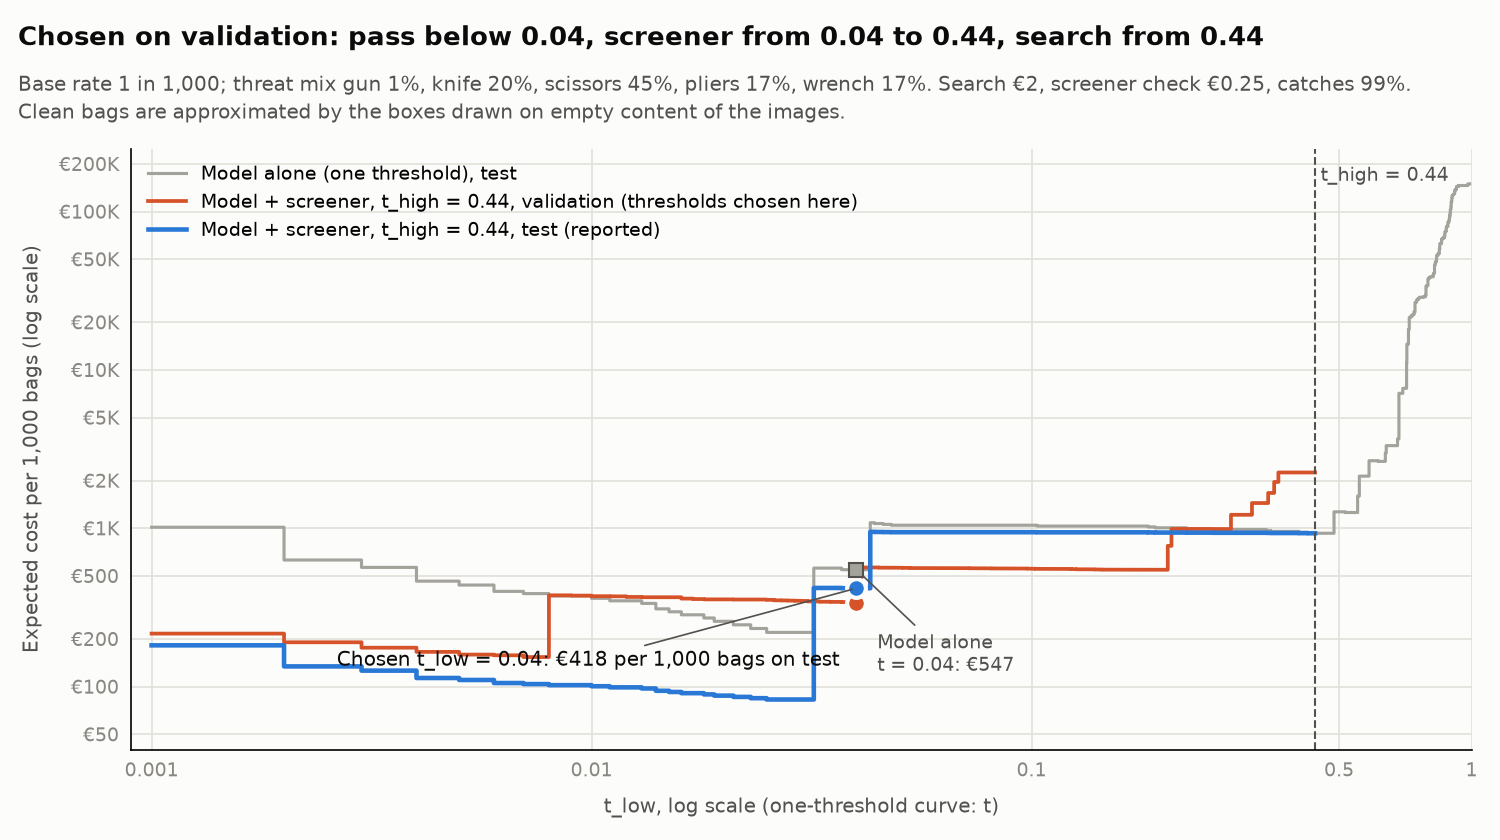
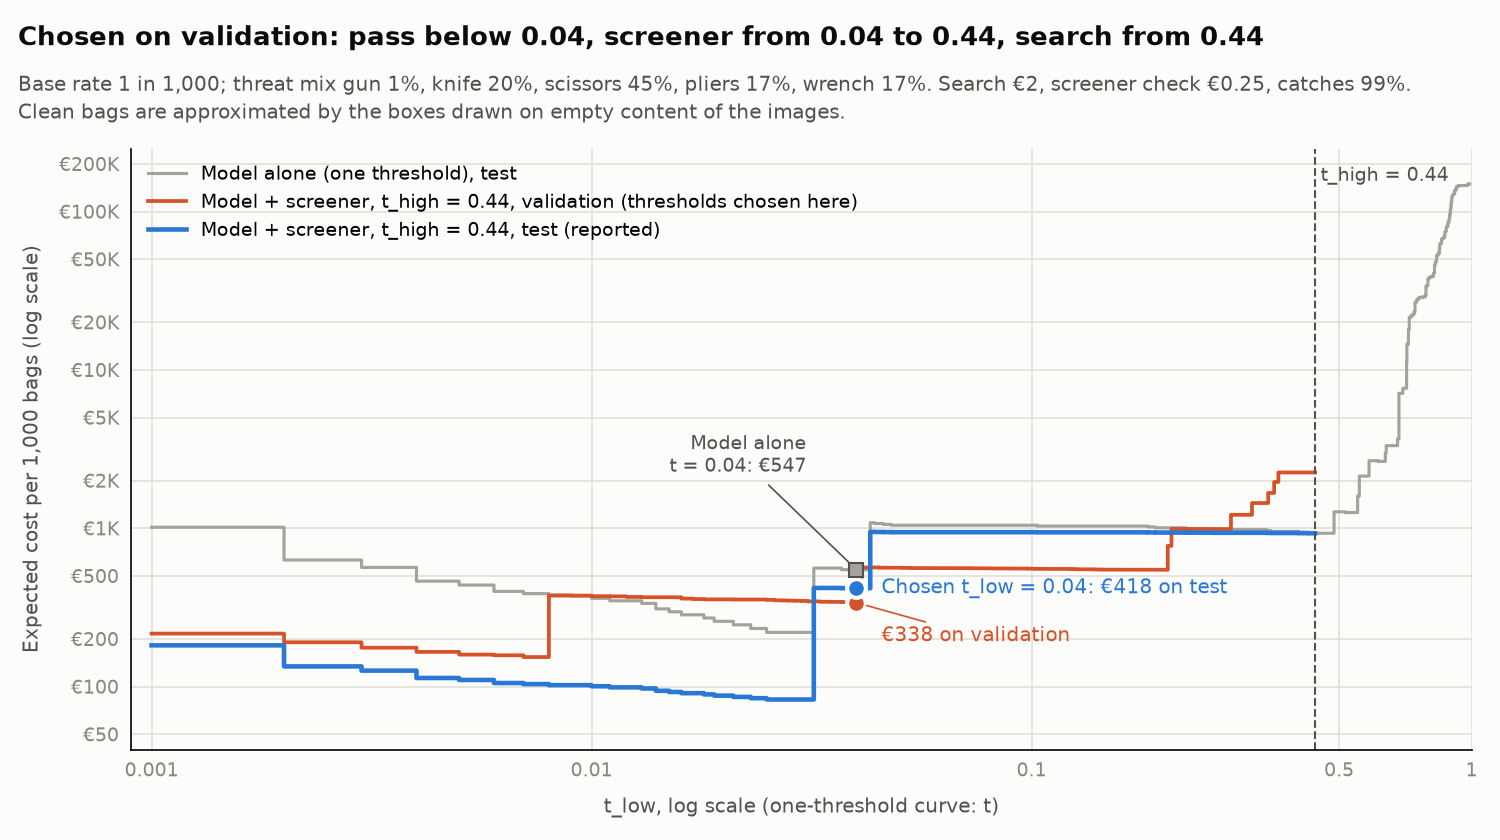
Report on the template headings; consistency fixes (pliers-bag framing, IoU note, grid); clearer cost-curve labels

Changed region(s): [[0.5827, 0.681, 0.828, 0.8048], [0.2147, 0.7738, 0.552, 0.8048], [0.46, 0.4952, 0.552, 0.5571]]

diff --git a/costing.py b/costing.py
@@ -507,7 +507,7 @@ def sensitivity(val: BagScores, test: BagScores, costs: Costs = DEFAULT_COSTS) -
 def comparison(val: BagScores, test: BagScores, costs: Costs = DEFAULT_COSTS) -> list[dict]:
     """Cost per 1,000 bags (val and test) and daily staffing (test shares) of the alternatives.
 
-    "Do nothing", "a person checks every image" and "search every bag" send every bag one way
+    "Do nothing", "a screener checks every image" and "search every bag" send every bag one way
     (thresholds of +/- inf).
     """
     k, inf = costs, np.inf
@@ -571,14 +571,17 @@ def plot_cost_curve(val: BagScores, test: BagScores, path: Path | None = None, c
     for split, scores, colour in (("val", val, orange), ("test", test, blue)):
         cost = p["chosen_policy"][split]["cost_per_1000"]
         ax.plot([lo], [cost], "o", ms=9, color=colour, mec=surface, mew=2, zorder=3)
-    c_test = p["chosen_policy"]["test"]["cost_per_1000"]
-    ax.annotate(f"Chosen t_low = {lo:g}: €{c_test:,.0f} per 1,000 bags on test", (lo, c_test),
-                xytext=(-8, -30), textcoords="offset points", ha="right", va="top", fontsize=9.5, color=ink,
-                arrowprops=dict(arrowstyle="-", color=ink2, lw=0.8))
+    # Labels sit in empty space next to the chosen points, so no label crosses a curve
+    c_test, c_val = (p["chosen_policy"][s]["cost_per_1000"] for s in ("test", "val"))
+    ax.annotate(f"Chosen t_low = {lo:g}: €{c_test:,.0f} on test", (lo, c_test),
+                xytext=(12, 0), textcoords="offset points", ha="left", va="center", fontsize=9.5, color=blue)
+    ax.annotate(f"€{c_val:,.0f} on validation", (lo, c_val),
+                xytext=(12, -16), textcoords="offset points", ha="left", va="center", fontsize=9.5, color=orange,
+                arrowprops=dict(arrowstyle="-", color=orange, lw=0.8, shrinkA=0, shrinkB=5))
     c_alone = p["model_alone"]["test"]["cost_per_1000"]
     ax.plot([t_alone], [c_alone], "s", ms=7, color=grey, mec=ink2, mew=1, zorder=4)
     ax.annotate(f"Model alone\nt = {t_alone:g}: €{c_alone:,.0f}", (t_alone, c_alone),
-                xytext=(10, -30), textcoords="offset points", ha="left", va="top", fontsize=9, color=ink2,
+                xytext=(-24, 44), textcoords="offset points", ha="right", va="bottom", fontsize=9, color=ink2,
                 arrowprops=dict(arrowstyle="-", color=ink2, lw=0.8))
     ax.axvline(hi, color=ink2, ls="--", lw=1)
     ax.text(hi, 0.97, f" t_high = {hi:g}", transform=ax.get_xaxis_transform(), fontsize=9, color=ink2, va="top")

diff --git a/REPORT.md b/REPORT.md
@@ -11,8 +11,8 @@ The model helps airport screeners decide, from each bag's X-ray, whether it
 passes or is searched by hand.
 
 - **Who acts on it**: the screener, guided by the model's score.
-- **Positive class**: a bag with a gun, knife, scissors, pliers or wrench, in
-  falling order of severity. A clean bag is the negative.
+- **Positive class**: a bag with a gun, knife, scissors, pliers or wrench. A
+  clean bag is the negative.
 - **False positive**: a clean bag is searched for nothing, costing minutes.
 - **False negative**: a threat reaches the aircraft. A gun or a knife can cost
   lives.
@@ -39,6 +39,8 @@ job: find the object and name it.
 | Instances | 1,751 | 1,594 | 1,542 | 1,369 | 1,518 |
 | Median box area (test) | 3.3% | 8.2% | 2.8% | 1.9% | 5.4% |
 
+## What the dataset's composition implies
+
 - **The classes are balanced**, so no class dominates training.
 - **There are no clean bags**, while almost every real bag is clean, so the
   false-alarm rate cannot be measured. The only signal left is boxes drawn on the background
@@ -52,7 +54,7 @@ job: find the object and name it.
 
 ## Finetuning and baselines
 
-**Settings**: `yolo11s` finetuned from COCO, `imgsz=512`, `epochs=70`, `batch=16`, `patience=20`, `seed=0`; Kaggle T4 GPU 
+**Settings**: `yolo11s` finetuned from COCO, `imgsz=512`, `epochs=70`, `batch=16`, `patience=20`, `seed=0`; Kaggle T4 GPU.
 A first `yolo11n` run at 416 px reached 0.903 mAP50.
 
 Test split:
@@ -64,11 +66,11 @@ Test split:
 | Predict nothing | 0.000 | 0.000 |
 
 COCO has no gun, pliers or wrench class, and zero-shot it found 2 of 54 scissors and no knives. The finetuned model beats both
-baselines on every class. Predicting nothing is the "Do nothing" cost row.
+baselines on every class.
 
 ## Per-class evaluation and failure modes
 
-Test split, at confidence 0.25 (confusion matrix in `artifacts/results_table.md`).
+Test split, at confidence 0.25; recall at IoU 0.5, counts at IoU 0.45 (confusion matrix in `artifacts/results_table.md`).
 
 | Class | AP50 | Recall | Not detected | False alarms |
 |---|---:|---:|---:|---:|
@@ -91,7 +93,7 @@ IMPORTANT: Recall here is per object at 0.25, while the policy below works per b
 
 - **Missed threat**, by the most severe object in the bag, set by the harm it
   can do on board: gun €1,000,000, knife €500,000 (half a gun), and scissors,
-  pliers and wrench €50,000 each (a tenth of a knife: small tools, harder to use as a weapon).
+  pliers and wrench €50,000 each (a tenth of a knife).
 - **Manual search**: €2. Two minutes of officer time is €0.67, plus the
   passenger's wait and the slower lane.
 - **Screener check**: €0.25: 30 seconds at a loaded €20 per hour, times 1.5
@@ -119,7 +121,15 @@ extra searches, and with a 0.1% base rate that points to a low threshold.
 
 *Cost per 1,000 bags against the lower threshold, validation and test.*
 
-## What the screener is for
+**When the answer changes:**
+
+- **Screener catch rate**: below 91.7% (validation) or 74.9% (test) the model
+  alone wins. A perfect screener widens the band to 0.90 (€379).
+- **Lower threshold**: moves to 0.19 if miss costs fall to 0.085 times or
+  threats are rarer than about 1 in 11,800.
+- **Search at officer time only (€0.67)**: upper threshold 0.19 (€401).
+
+## What a person still has to check
 
 The screener clears false alarms for €0.25 instead of a €2 search. I assume
 they catch 99% of threats, since they see the model's boxes, and never send a
@@ -127,37 +137,29 @@ clean bag to search. A reviewed threat is still missed 1% of the time, so above
 0.44 a search is cheaper. On test every gun and knife bag scores above 0.44.
 
 A bag below 0.04 passes, from 0.04 to 0.44 a screener checks it, and from 0.44
-it is searched. Chosen on validation (€338 per 1,000 bags), this pair costs €418
-on test. The optimum is flat: pairs within 5% span 0.02 to 0.04 and 0.15 to
+it is searched. Chosen on validation on a 0.01 grid (€338 per 1,000 bags), this
+pair costs €418 on test. The optimum is flat: pairs within 5% span 0.02 to 0.04 and 0.15 to
 0.58. My first idea, an upper threshold of 0.7, costs €452.
 
 A few small, cluttered threat bags set the low threshold: the model boxes them
 correctly but with very low confidence (test: pliers 0.031, scissors 0.043). At
 0.04 that pliers bag passes unchecked, as does a validation scissors bag at
-0.007. 0.04 is cheapest on validation. On test, that pliers bag costs
-€50,000; 0.03 would cost about €83. Thresholds come from validation, so test
-pays for that one bag.
+0.007. On the 0.01 grid, 0.04 is cheapest on validation. On test, that pliers
+bag adds about €340 of the €418 per 1,000 bags; 0.03 would cost about €83.
+Thresholds come from validation, so test pays for that one bag.
 
 **Staffing.** At an assumed 90,700 departing bags a day at Madrid-Barajas, the
 policy sends 7.7% to a screener and 2.7% to a search. 
 A screener views every image today (142 shifts), so staff
 suffices.
 
-| Option | Cost per 1,000 bags | Staff shifts a day (screener + search) |
+| Option | Cost per 1,000 bags (test) | Staff shifts a day (screener + search) |
 |---|---:|---:|
 | Do nothing | €149,500 | 0 |
 | Manual search of every bag | €2,000 | 378 |
 | A screener checks every image | €1,747 | 142 |
 | Model alone (search from 0.04) | €547 | 39 |
 | **Model + screener (my policy)** | **€418** | **21** |
-
-## When the answer changes
-
-- **Screener catch rate**: below 91.7% (validation) or 74.9% (test) the model
-  alone wins. A perfect screener widens the band to 0.90 (€379).
-- **Lower threshold**: moves to 0.19 if miss costs fall to 0.085 times or
-  threats are rarer than about 1 in 11,800.
-- **Search at officer time only (€0.67)**: upper threshold 0.19 (€401).
 
 ## Limitations & next steps
 

diff --git a/notes/colab.md b/notes/colab.md
@@ -1,6 +1,6 @@
-# Training on Colab
+# Training on a GPU (Colab or Kaggle)
 
-My laptop has no NVIDIA GPU, so the real training runs on Colab.
+My laptop has no NVIDIA GPU, so training runs on a cloud GPU. These steps are for Colab; the submitted model was trained on Kaggle (see the end).
 
 1. Runtime > Change runtime type > T4 GPU.
 2. Add the Roboflow key as a Colab secret: click the key icon on the left, name it `ROBOFLOW_API_KEY` and turn notebook access on. The key never goes in a cell.

diff --git a/artifacts/results_table.md b/artifacts/results_table.md
@@ -1,6 +1,6 @@
 # Test split results
 
-P and R at conf >= 0.25, IoU >= 0.5. Generated by `train.py`.
+P and R at conf >= 0.25, IoU >= 0.5; confusion matrix at IoU 0.45. Generated by `train.py`.
 
 | Model | mAP50 | mAP50-95 |
 |---|---:|---:|
